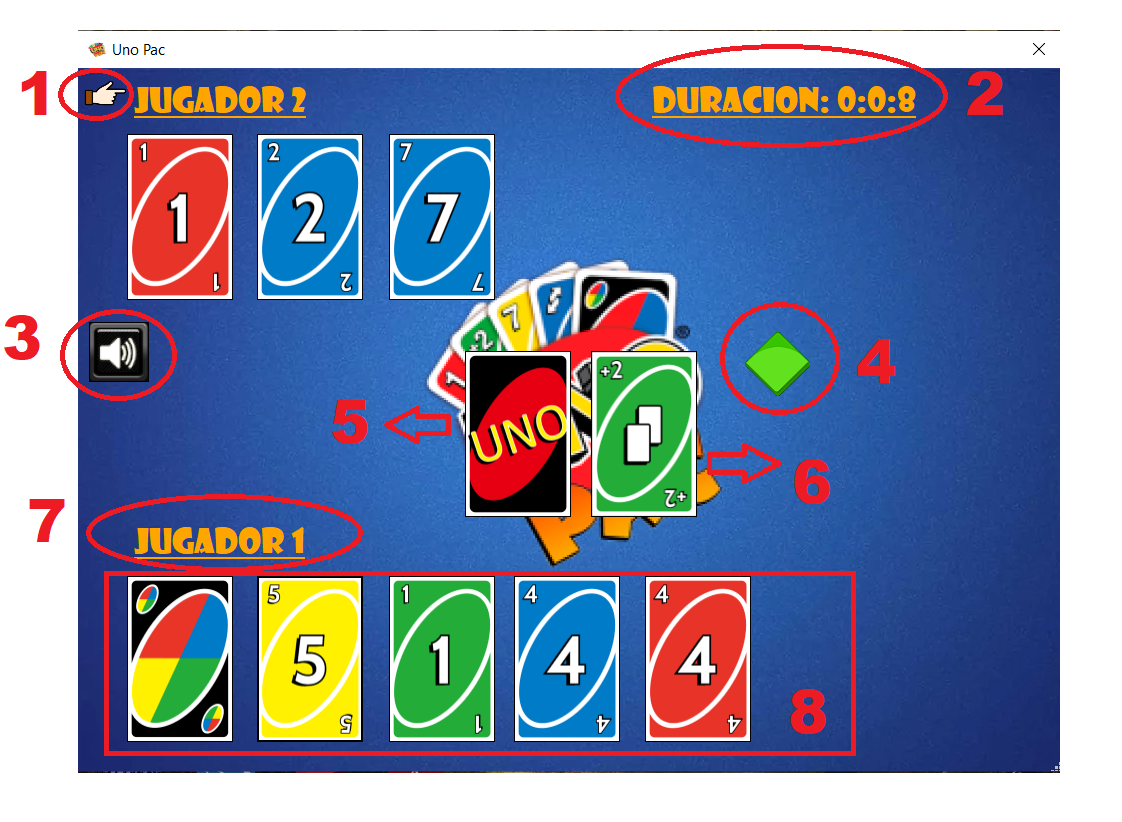
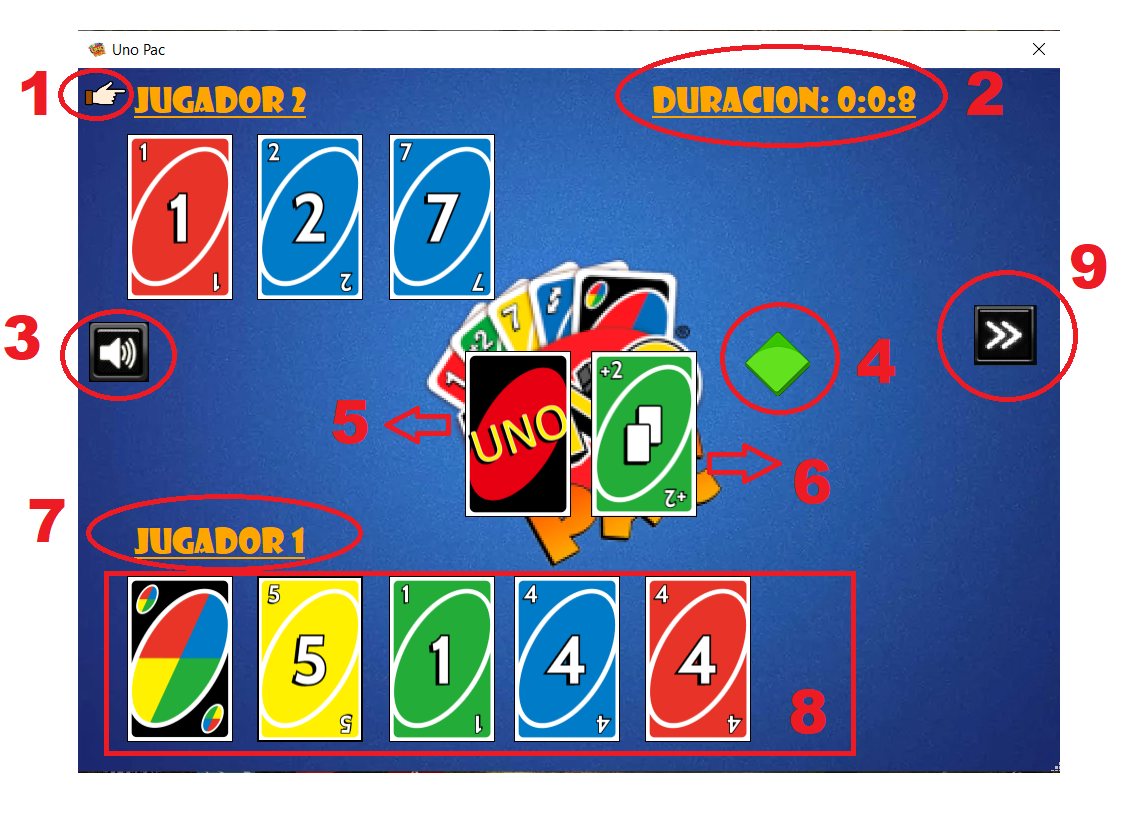
Termino documentacion del codigo XML

Changed region(s): [[0.8111, 0.3041, 0.9982, 0.4866], [0.8734, 0.3041, 0.9046, 0.3345]]

diff --git a/InicioForm/PartidaForm.cs b/InicioForm/PartidaForm.cs
@@ -82,7 +82,7 @@ namespace UnoPacGUI
             this.pbManoJ1.Visible = this.pbManoJ2.Visible = false;
             this.btnColorActual.BackgroundImage = Properties.Resources.colorVerde;
             this.cronometro.IniciarCronometro();
-            this.actualizar();
+            this.Actualizar();
 
             this.MostrarAyuda(this.btnColorActual, "Color actual de la partida");
             this.MostrarAyuda(this.btnMazo, "Click para agarrar una carta del mazo");
@@ -203,7 +203,7 @@ namespace UnoPacGUI
         /// Ejecuta serie de funciones para actualizar la vista,controles,etc cuando se realiza una accion y poder
         /// reflejar tanto los cambios en la vista y en la logica
         /// </summary>
-        private void actualizar()
+        private void Actualizar()
         {
             this.HabilitarCambioColor();
             this.HabilitarPasoTurno();
@@ -508,13 +508,15 @@ namespace UnoPacGUI
 
 
         /// <summary>
-        /// 
+        /// Muestra el formulario con el jugador ganador, cargando el acontecimiento en el log de la partida, agregando dicha
+        /// partida finalizada en la base de datos y cerrando el formulario principal de la partida
         /// </summary>
         /// <param name="jugador"></param>
         private void MensajeGanador(string jugador)
         {
             if(!this.quitarSonido)
                 PartidaForm.sonidoGanador.Play();
+
             int puntosGanador = this.partida.JugadorActual.ObtenerPuntos();
             string duracion = this.cronometro.DetenerCronometro();
             string texto = $"GANADOR: {jugador} TIEMPO: {duracion} PUNTOS: {puntosGanador}";
@@ -546,6 +548,10 @@ namespace UnoPacGUI
             }
         }
 
+        /// <summary>
+        /// Habilita una imagen para indicar que el jugador tiene 1 sola carta
+        /// </summary>
+        /// <param name="numeroJugador">int, numero del jugador que se quedo con 1 sola carta</param>
         private void MensajeUno(int numeroJugador)
         {
             if (!this.quitarSonido)
@@ -561,6 +567,13 @@ namespace UnoPacGUI
         }
 
 
+        /// <summary>
+        /// Evento click de la carta seleccionada por el jugador al momento de hacer una jugada, comprobando que pudo tirar la
+        /// carta, ocultandola si fue tirada con exito y capturando las excepciones MensajeGanadorException o MensajeUnoException
+        /// si fuese necesario.
+        /// </summary>
+        /// <param name="sender"></param>
+        /// <param name="e"></param>
         private void btnCarta_Click(object sender, EventArgs e)
         {
             Button boton = (Button)sender;
@@ -629,11 +642,17 @@ namespace UnoPacGUI
             }
             finally
             {
-                this.actualizar();
+                this.Actualizar();
             }
 
         }
 
+        /// <summary>
+        /// Agrega una carta a la mano del jugador que hizo el click sobre el mazo, agregando dicho acontecimiento 
+        /// al log y actualizando la vista
+        /// </summary>
+        /// <param name="sender"></param>
+        /// <param name="e"></param>
         private void btnMazo_Click(object sender, EventArgs e)
         {
 
@@ -664,21 +683,30 @@ namespace UnoPacGUI
                     this.partida.JugadorActual.RecogioCarta = true;
                     this.partida.log.AgregarAlLog($"[{DateTime.Now}][{this.partida.JugadorActual.Nombre}][AGARRA CARTA DEL MAZO]");
                 }
-                this.actualizar();
+                this.Actualizar();
             }
   
         }
 
-
+        /// <summary>
+        /// Permite pasar el turno al siguiente jugador en el caso que no pueda realizar ninguna accion
+        /// </summary>
+        /// <param name="sender"></param>
+        /// <param name="e"></param>
         private void btnPasarTurno_Click(object sender, EventArgs e)
         {
             ((Button)sender).ReproducirRuido(quitarSonido);
             this.partida.log.AgregarAlLog($"[{DateTime.Now}][{this.partida.JugadorActual.Nombre}][PASA TURNO]");
             this.partida.SiguienteJugador();
-            this.actualizar();
+            this.Actualizar();
 
         }
 
+        /// <summary>
+        /// Pregunta de confirmacion si desea cancelar la partida con posibilidiad de guardarla
+        /// </summary>
+        /// <param name="sender"></param>
+        /// <param name="e"></param>
         private void PartidaForm_FormClosing(object sender, FormClosingEventArgs e)
         {
             if (!this.hayGanador)
@@ -716,6 +744,10 @@ namespace UnoPacGUI
            
         }
 
+        /// <summary>
+        /// Actualiza el Label que lleva la duracion de la partida
+        /// </summary>
+        /// <param name="tiempo"></param>
         private void ActualizarTiempo(DateTime tiempo)
         {
 
@@ -732,6 +764,12 @@ namespace UnoPacGUI
  
         }
 
+        /// <summary>
+        /// Una vez pasado el tiempo de intervalo del timer , deshabilita el picture box del jugador que mostro
+        /// la imagen de ultima carta
+        /// </summary>
+        /// <param name="sender"></param>
+        /// <param name="e"></param>
         private void timer1_Tick(object sender, EventArgs e)
         {
             this.pbUnoJ1.Visible = false;
@@ -739,6 +777,11 @@ namespace UnoPacGUI
             this.timer1.Stop();
         }
 
+        /// <summary>
+        /// Permite deshabilitar el sonido del juego
+        /// </summary>
+        /// <param name="sender"></param>
+        /// <param name="e"></param>
         private void btnMusica_Click(object sender, EventArgs e)
         {
             if (!this.quitarSonido)

diff --git a/README.md b/README.md
@@ -44,6 +44,7 @@ Juego vista
 - **6) Cartas ya jugadas**<br>
 - **7) Nombre jugador**<br>
 - **8) Cartas del jugador**<br>
+- **9) Boton para pasar de turno**<br>
 
 Consideraciones
 =============
